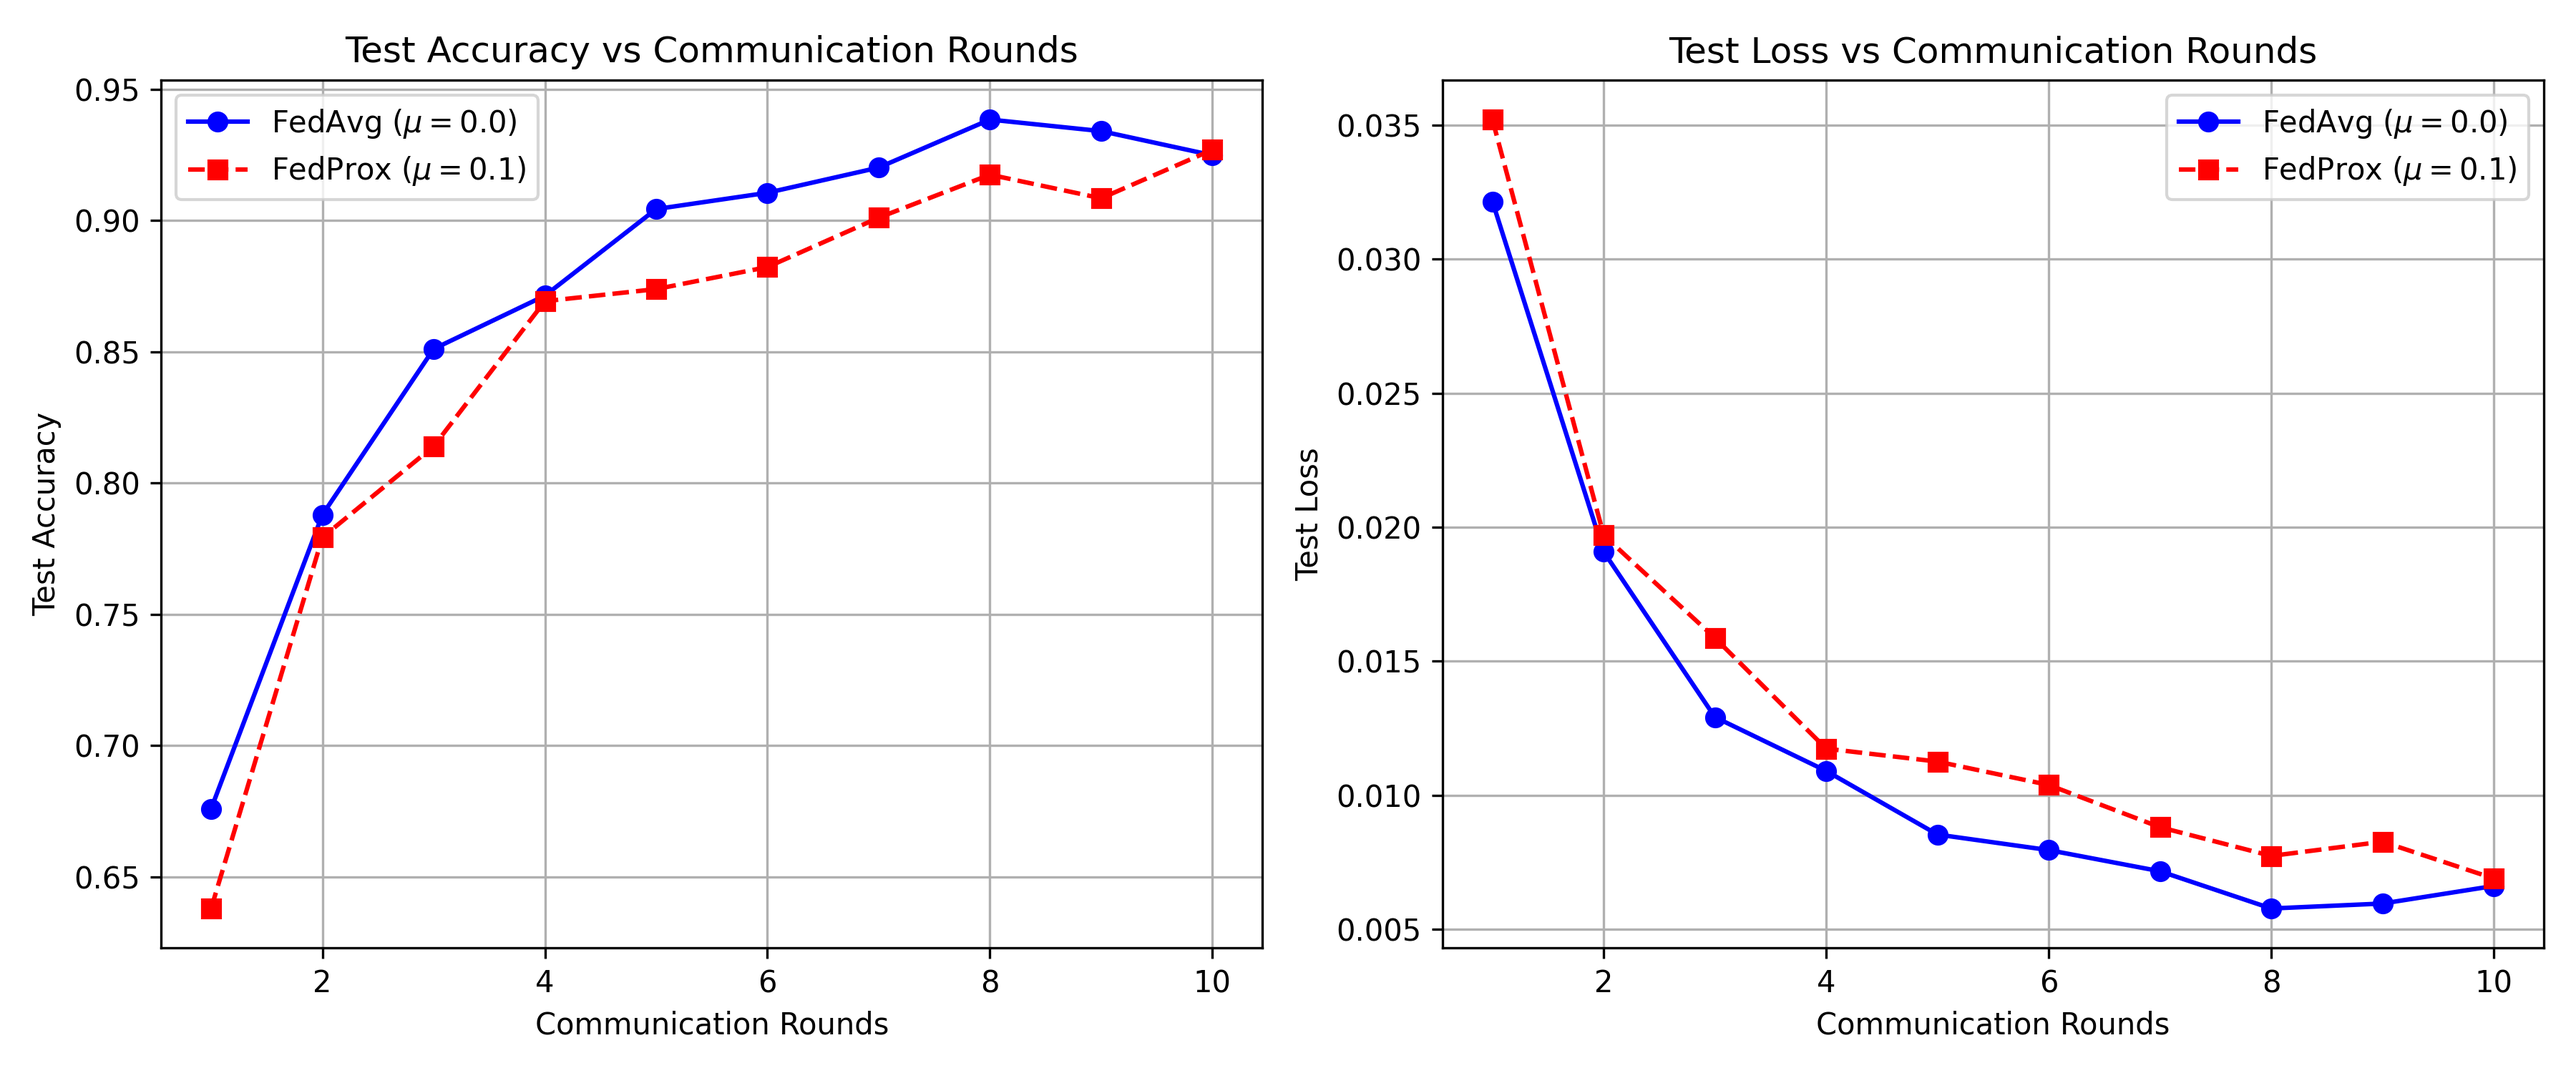
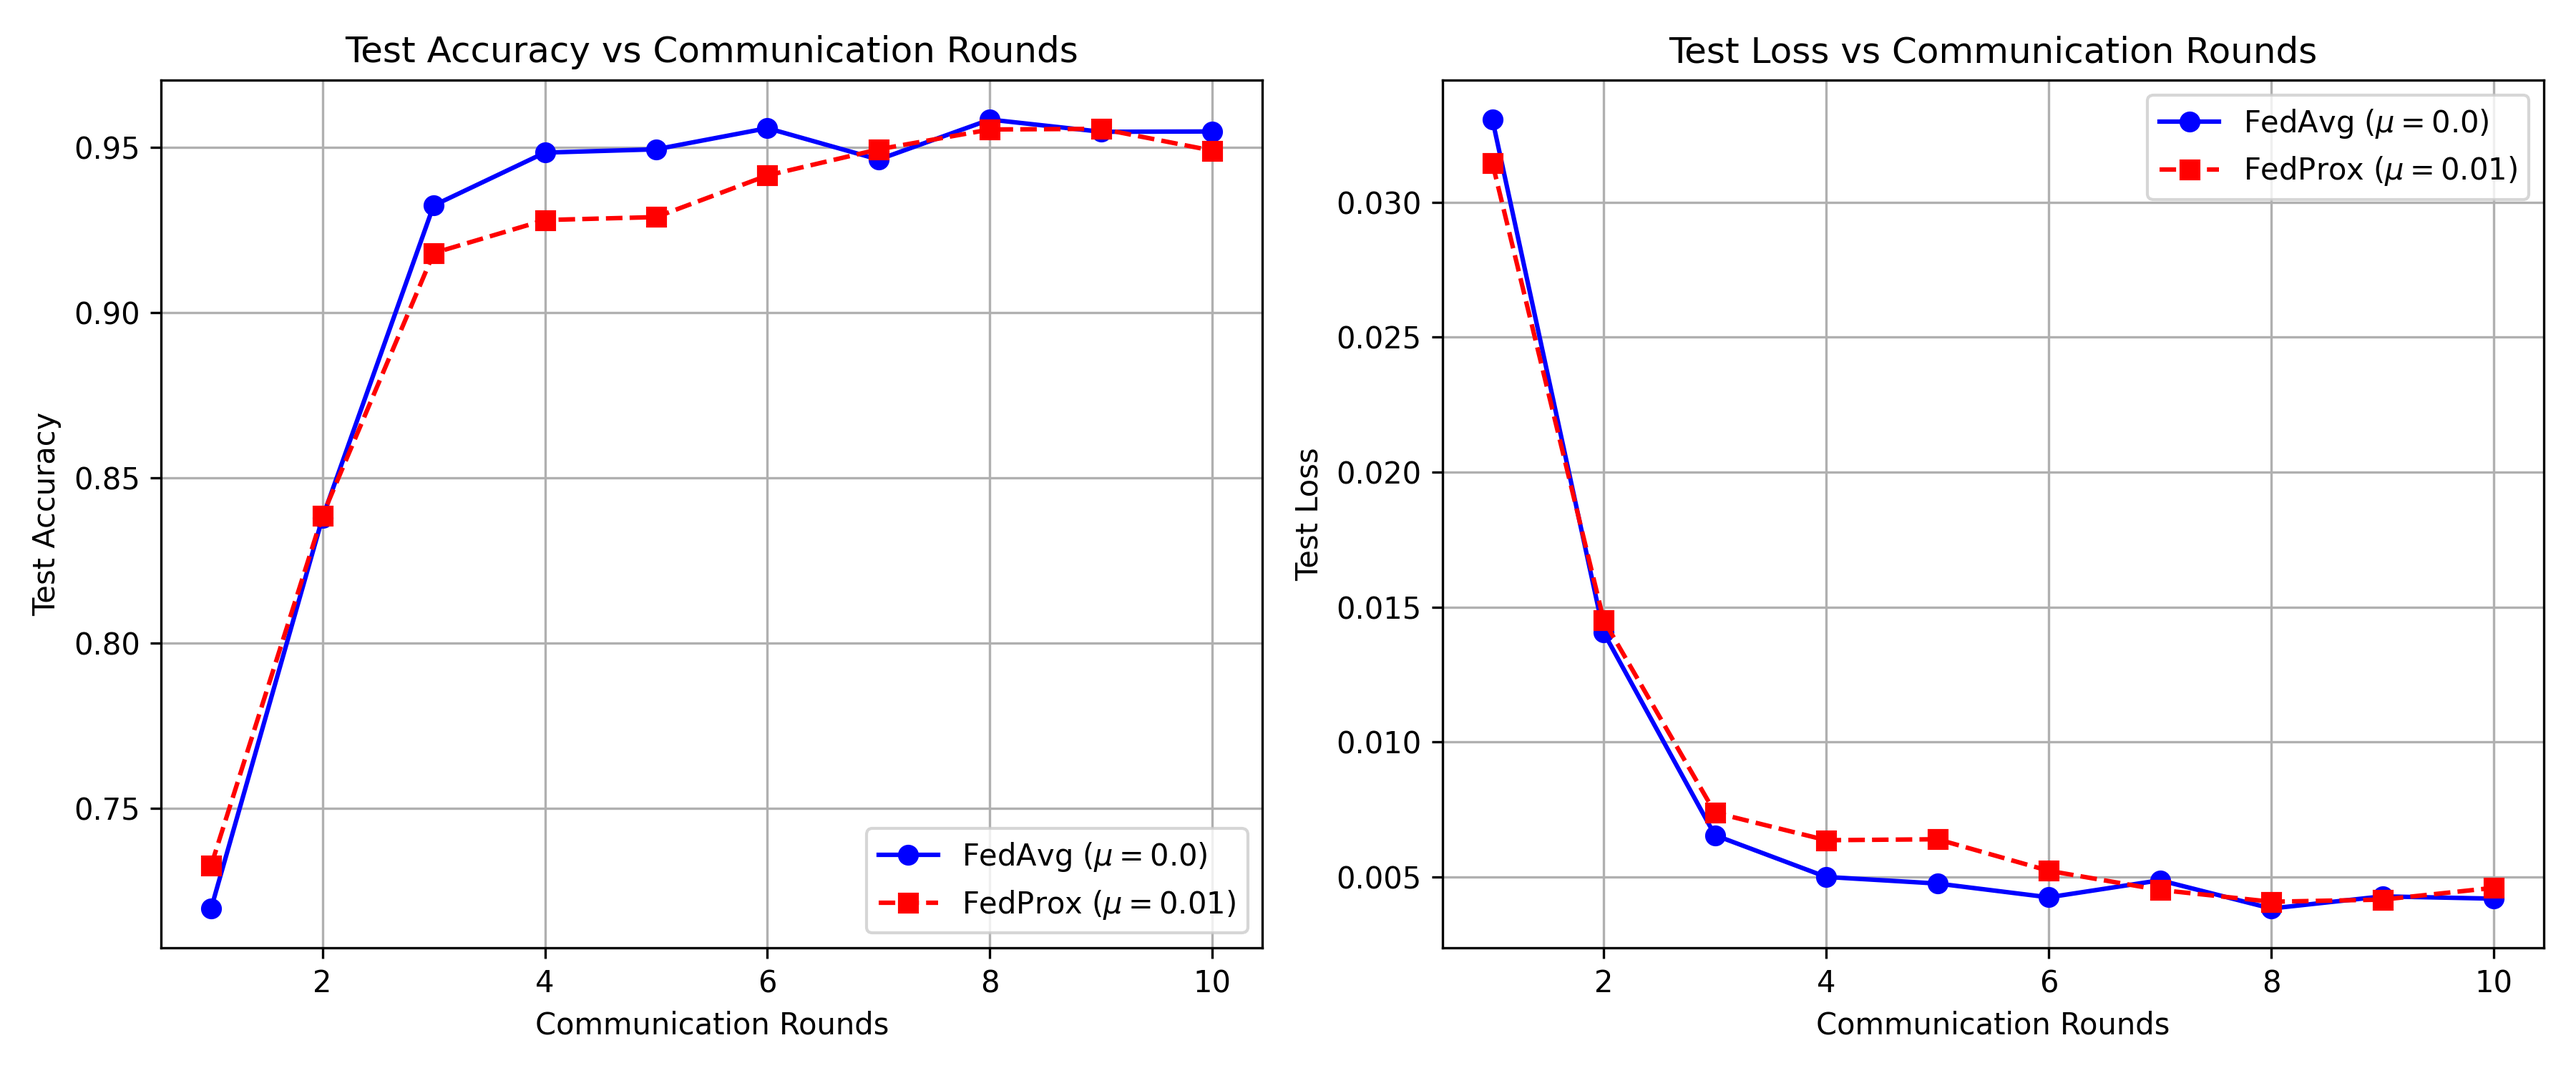
完成 FedProx 消融实验并生成对比图表

diff --git a/plot.py b/plot.py
@@ -16,8 +16,8 @@ def load_data(filename):
 try:
     # 提取 FedAvg (mu=0.0) 的数据
     rounds, acc_fedavg, loss_fedavg = load_data('results_mu_0.0.json')
-    # 提取 FedProx (mu=0.1) 的数据
-    _, acc_fedprox, loss_fedprox = load_data('results_mu_0.1.json')
+    # 提取 FedProx (mu=0.01) 的数据
+    _, acc_fedprox, loss_fedprox = load_data('results_mu_0.01.json')
 except FileNotFoundError:
     print("错误：找不到 json 文件")
     exit()
@@ -28,7 +28,7 @@ plt.figure(figsize=(12, 5))
 # --- 图 1：Accuracy vs Rounds ---
 plt.subplot(1, 2, 1)
 plt.plot(rounds, acc_fedavg, label='FedAvg ($\mu=0.0$)', marker='o', linestyle='-', color='blue')
-plt.plot(rounds, acc_fedprox, label='FedProx ($\mu=0.1$)', marker='s', linestyle='--', color='red')
+plt.plot(rounds, acc_fedprox, label='FedProx ($\mu=0.01$)', marker='s', linestyle='--', color='red')
 plt.title('Test Accuracy vs Communication Rounds')
 plt.xlabel('Communication Rounds')
 plt.ylabel('Test Accuracy')
@@ -38,7 +38,7 @@ plt.legend()
 # --- 图 2：Loss vs Rounds ---
 plt.subplot(1, 2, 2)
 plt.plot(rounds, loss_fedavg, label='FedAvg ($\mu=0.0$)', marker='o', linestyle='-', color='blue')
-plt.plot(rounds, loss_fedprox, label='FedProx ($\mu=0.1$)', marker='s', linestyle='--', color='red')
+plt.plot(rounds, loss_fedprox, label='FedProx ($\mu=0.01$)', marker='s', linestyle='--', color='red')
 plt.title('Test Loss vs Communication Rounds')
 plt.xlabel('Communication Rounds')
 plt.ylabel('Test Loss')

diff --git a/client.py b/client.py
@@ -76,7 +76,7 @@ class FedProxClient(fl.client.NumPyClient):
         mu = config.get("mu", 0.0)
 
         # 把动态获取的 mu 传进训练函数
-        train_fedprox(self.net, parameters, self.trainloader, mu=mu, epochs=1)
+        train_fedprox(self.net, parameters, self.trainloader, mu=mu, epochs=5)
         return self.get_parameters(config=None), len(self.trainloader.dataset), {}
 
     def evaluate(self, parameters, config):

diff --git a/server.py b/server.py
@@ -7,7 +7,7 @@ from dataset import load_datasets
 # ==========================================
 # 核心实验参数
 # ==========================================
-MU = 0.1  # 0.0 代表运行 FedAvg； 0.1 代表运行 FedProx
+MU = 0.01  # 0.0 代表运行 FedAvg； 0.01 代表运行 FedProx
 NUM_ROUNDS = 10
 NUM_CLIENTS = 2
 

diff --git a/README.md b/README.md
@@ -1,1 +1,63 @@
-# FedProx-Flower-MiniProject
+# Federated Learning 论文复现: FedProx
+
+本项目使用 PyTorch 和 Flower 框架，在单机模拟环境下复现了联邦学习论文 **FedProx** 的核心算法及其在 Non-IID（非独立同分布）数据下的优势。
+
+**论文出处：**
+> Li T, Sahu A K, Zaheer M, Sanjabi M, Talwalkar A, Smith V. Federated Optimization in Heterogeneous Networks[C]//Proceedings of Machine Learning and Systems. 2020, 2: 429–450.
+
+---
+
+## 核心复现目标 (Minimum Reproducible Result, MRR)
+
+1. **跑通核心算法**：在客户端的本地损失函数中成功引入近端项（Proximal Term），实现了对本地模型偏离全局模型的惩罚。
+2. **复现关键结果**：构造了极端的 Non-IID 数据划分（按标签排序后切割），证明了 FedAvg 在数据异构且本地迭代次数较多（Epochs=5）时会出现“客户端漂移（Client Drift）”导致的震荡与性能下降，而 FedProx 能够有效缓解这一问题。
+3. **消融实验**：通过调整近端项系数 $\mu$，对比了 $\mu=0$ (退化为 FedAvg)、$\mu=0.01$ 和 $\mu=0.1$（过大的惩罚导致欠拟合）三种情况下的收敛曲线。
+
+---
+
+## 环境依赖与安装
+
+本项目使用 Python 3.9 并在 Anaconda 环境下测试通过。
+
+1. **克隆仓库**
+git clone https://github.com/Eclipse-3535/FedProx-Flower-MiniProject.git
+cd FedProx-Flower-MiniProject
+
+2. **创建并激活虚拟环境**
+conda create -n fl_env python=3.9 -y
+conda activate fl_env
+
+3. **安装依赖项**
+pip install flwr[simulation]>=1.5.0 torch torchvision matplotlib numpy
+
+---
+
+## 一键复现实验命令
+
+本项目将超参数集中在 `server.py` 顶部，可以通过修改 `MU` 的值来运行不同的基线或算法。
+
+### 1. 运行 FedAvg ($\mu=0.0$)
+将 `server.py` 中第 10 行修改为 `MU = 0.0`，然后运行：
+python server.py
+*(运行结束后，将在当前目录生成 `results_mu_0.0.json` 文件)*
+
+### 2. 运行 FedProx ($\mu=0.01$)
+将 `server.py` 中第 10 行修改为 `MU = 0.01`，然后运行：
+python server.py
+*(运行结束后，将在当前目录生成 `results_mu_0.01.json` 文件)*
+
+### 3. 生成对比图表
+确保上述两个 JSON 文件都已生成，运行：
+python plot.py
+*(该脚本将读取 JSON 文件，并生成 `fedprox_vs_fedavg.png` 包含 Accuracy 和 Loss 的对比曲线图)*
+
+---
+
+## 关键超参数与实验设定声明
+
+为了适应 CPU-only 的单机模拟环境，我在复现范围上做了以下缩放（不影响核心结论）：
+*   **模型**：使用轻量级的 3 层 SimpleCNN。
+*   **数据集**：使用 MNIST（代替原论文的部分复杂数据集）。
+*   **客户端数量**：缩减为 2 个客户端参与全量训练（代替原论文的 100+ 客户端抽样）。
+*   **数据异质性**：采用极端的 Non-IID 划分（客户端 0 仅含标签 0-4，客户端 1 仅含标签 5-9）。
+*   **本地迭代次数 (Epochs)**：设置为 5，以刻意放大本地模型偏离全局模型的程度，从而凸显 FedProx 的优势。
